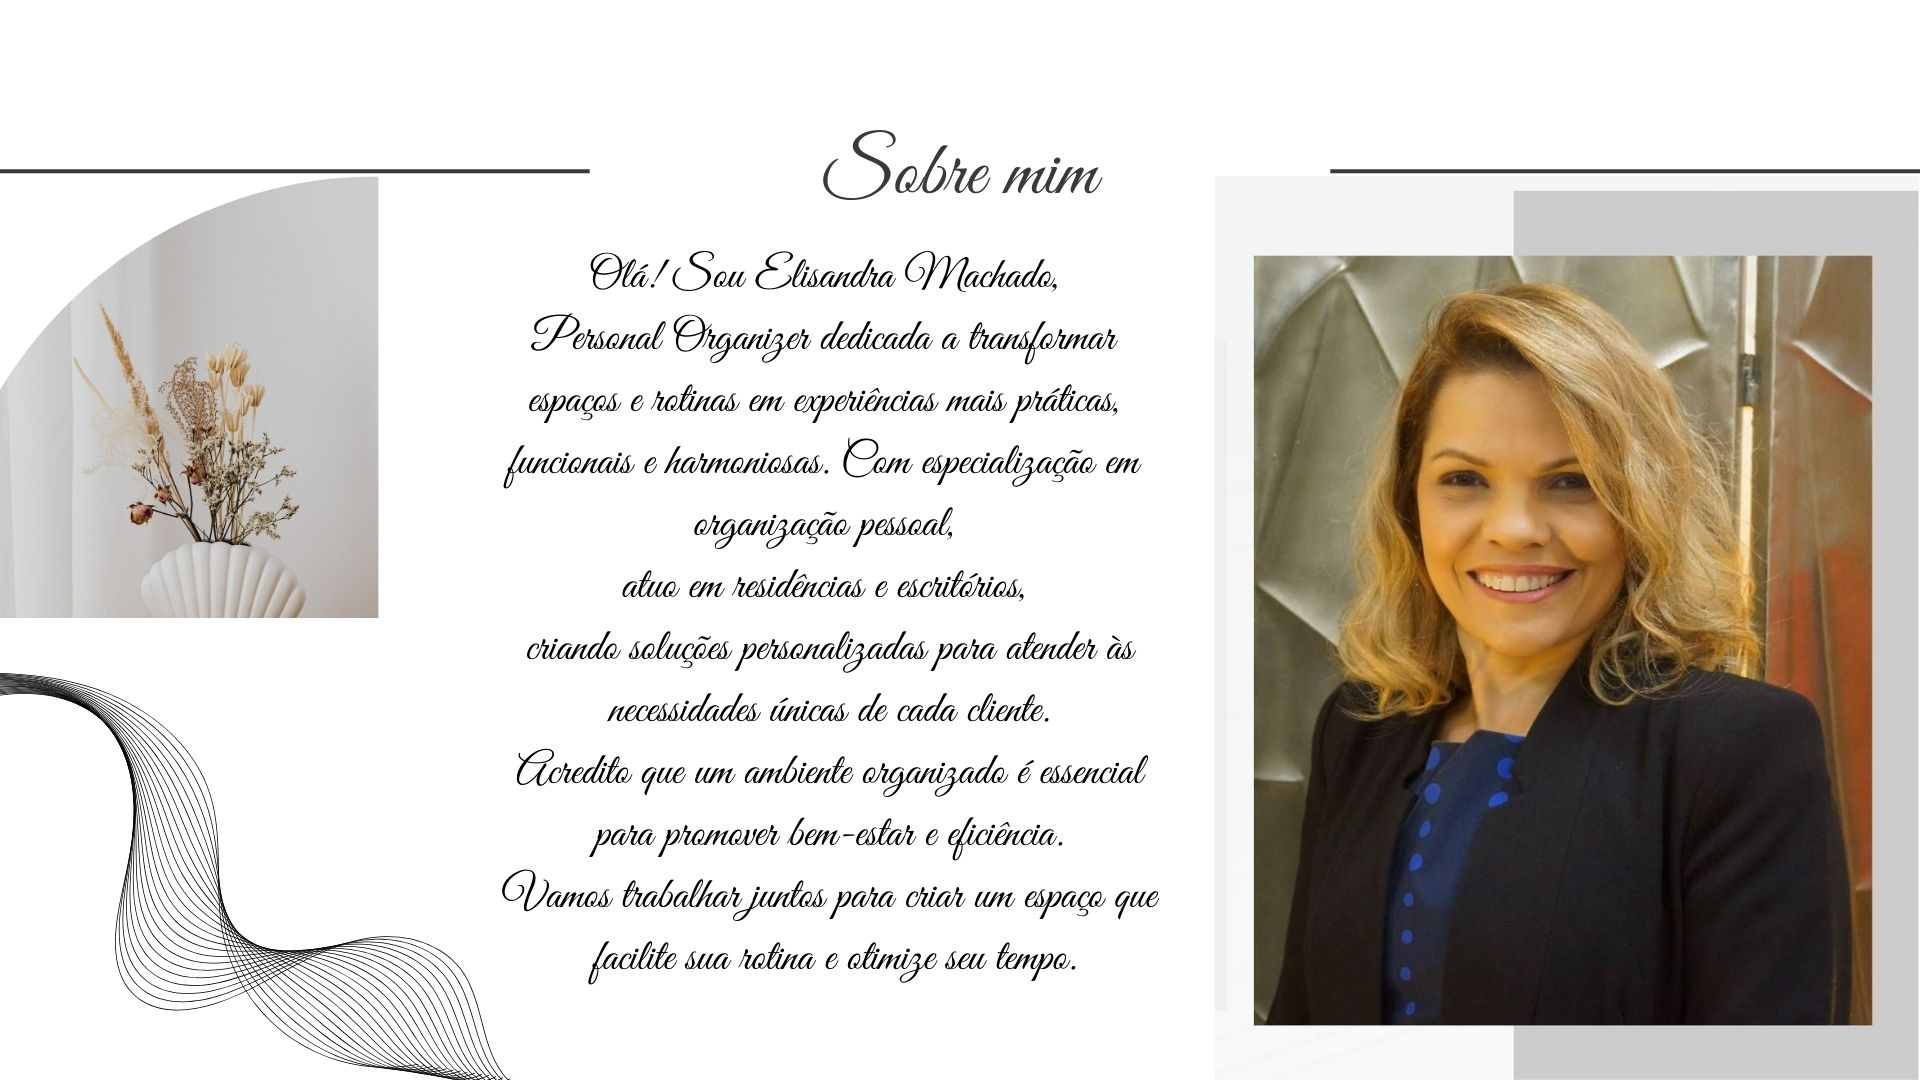
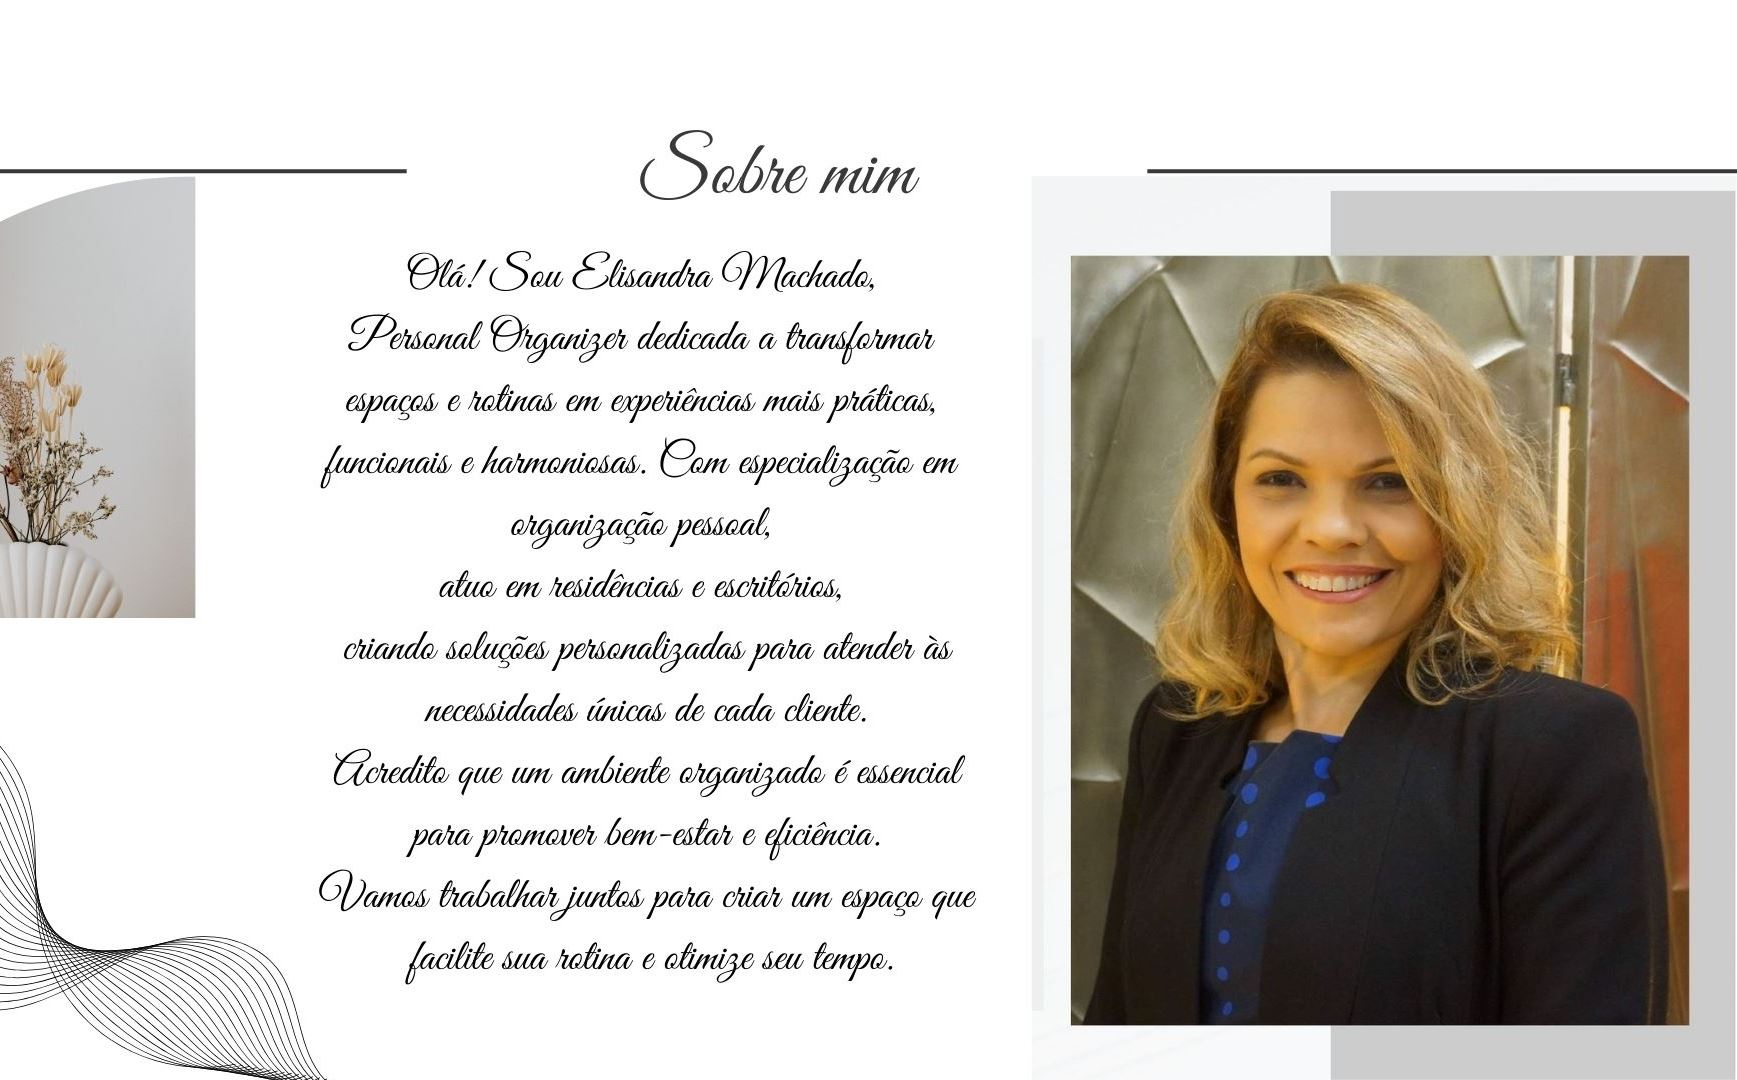
Subindo fotos e alterando backgrounds

diff --git a/main.css b/main.css
@@ -20,7 +20,7 @@ body {
         transform: translateX(-50px) scale(0.4); /* Ajusta foco e zoom */
         transform-origin: left top; /* Define o ponto de referência */
         overflow-x: hidden; /* Impede rolagem horizontal */
-        width: 1100px; /* Largura fixa lógica */
+        width: 1200px; /* Largura fixa lógica */
     }
 }
 
@@ -144,7 +144,7 @@ header#menu {
 
 .logo {
     position: relative; 
-    margin-left: 30px;
+    margin-left: 0px;
 }
 
 .logo img {
@@ -206,7 +206,7 @@ header#menu {
 /* Seção Sobre */
 #sobre {
     margin: 0; /* Remove margens externas */
-    height: 1100px;
+    height: 900px;
     background: url('images/sobre-background.jpg') no-repeat center center/cover;
     display: flex;
     justify-content: center;
@@ -225,7 +225,7 @@ header#menu {
     font-size: 3rem;
     text-align: center;
     position: relative; /* Permite ajustar com `left` */
-    left: 160px; /* Move o título 20px para a direita */
+    left: 120px; /* Move o título 20px para a direita */
     margin-bottom: 10px;
     color: black;
 }
@@ -234,7 +234,7 @@ header#menu {
     display: grid;
     grid-template-columns: repeat(2, 1fr); /* 2 colunas */
     gap: 20px;
-    padding-left: 0px; /* Empurra as colunas para a direita */
+    padding-left: -30px; /* Empurra as colunas para a direita */
     width: 120%; /* Ocupa toda a largura do contêiner */
     box-sizing: border-box; /* Inclui o padding no cálculo da largura */
     

diff --git a/main.html b/main.html
@@ -3,7 +3,7 @@
 <head>
   <meta charset="UTF-8">
   <!-- FORÇA O LAYOUT DE 1200PX E UM ZOOM INICIAL DE 0.3 (30%) NO CELULAR -->
-  <meta name="viewport" content="width=1200, initial-scale=0.5, maximum-scale=2, user-scalable=yes">
+  <meta name="viewport" content="width=1200, initial-scale=0.4, maximum-scale=2, user-scalable=yes">
   <title>Meu Portfólio</title>
   <link href="https://fonts.googleapis.com/css2?family=Pinyon+Script&display=swap" rel="stylesheet">
   <link rel="stylesheet" href="main.css">
@@ -33,10 +33,9 @@
     <h2 class="impact-text">A mente se acalma, o corpo respira, na organização, a vida gira."</h2>
     <h2 class="impact-text">- Sandra Machado</h2>
   </section>
-
   <!-- Seção Sobre -->
   <section id="sobre" class="section">
-    <!-- ... conteúdo de "Sobre" -->
+    <div class="sobre"></div>
   </section>
 
   <section id="barra">
@@ -99,10 +98,7 @@
 
   <!-- Seção Investimento -->
   <section id="investir" class="section">
-    <div class="investment-images">
-      <div class="investment-image" id="investimento"></div>
-      <div class="investment-image" id="agenda"></div>
-    </div>
+        <div class="investment-images" style="background-image: url('images/investimento.jpg');"></div>
   </section>
 
   <!-- Scripts JS, se houver -->
